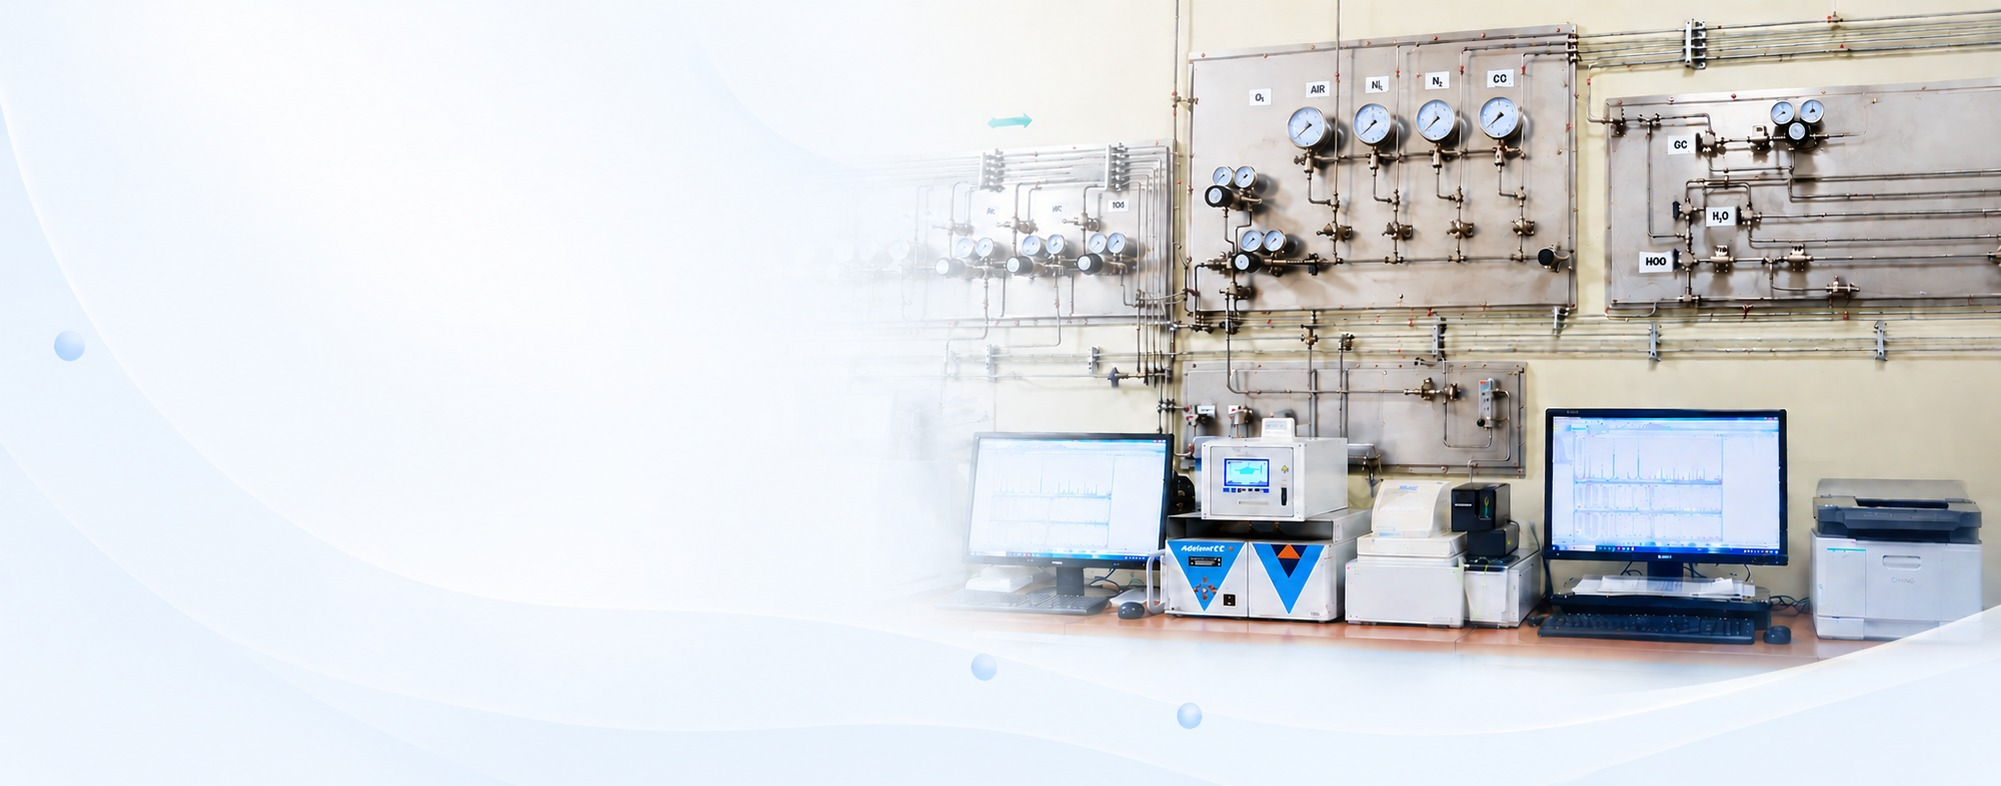
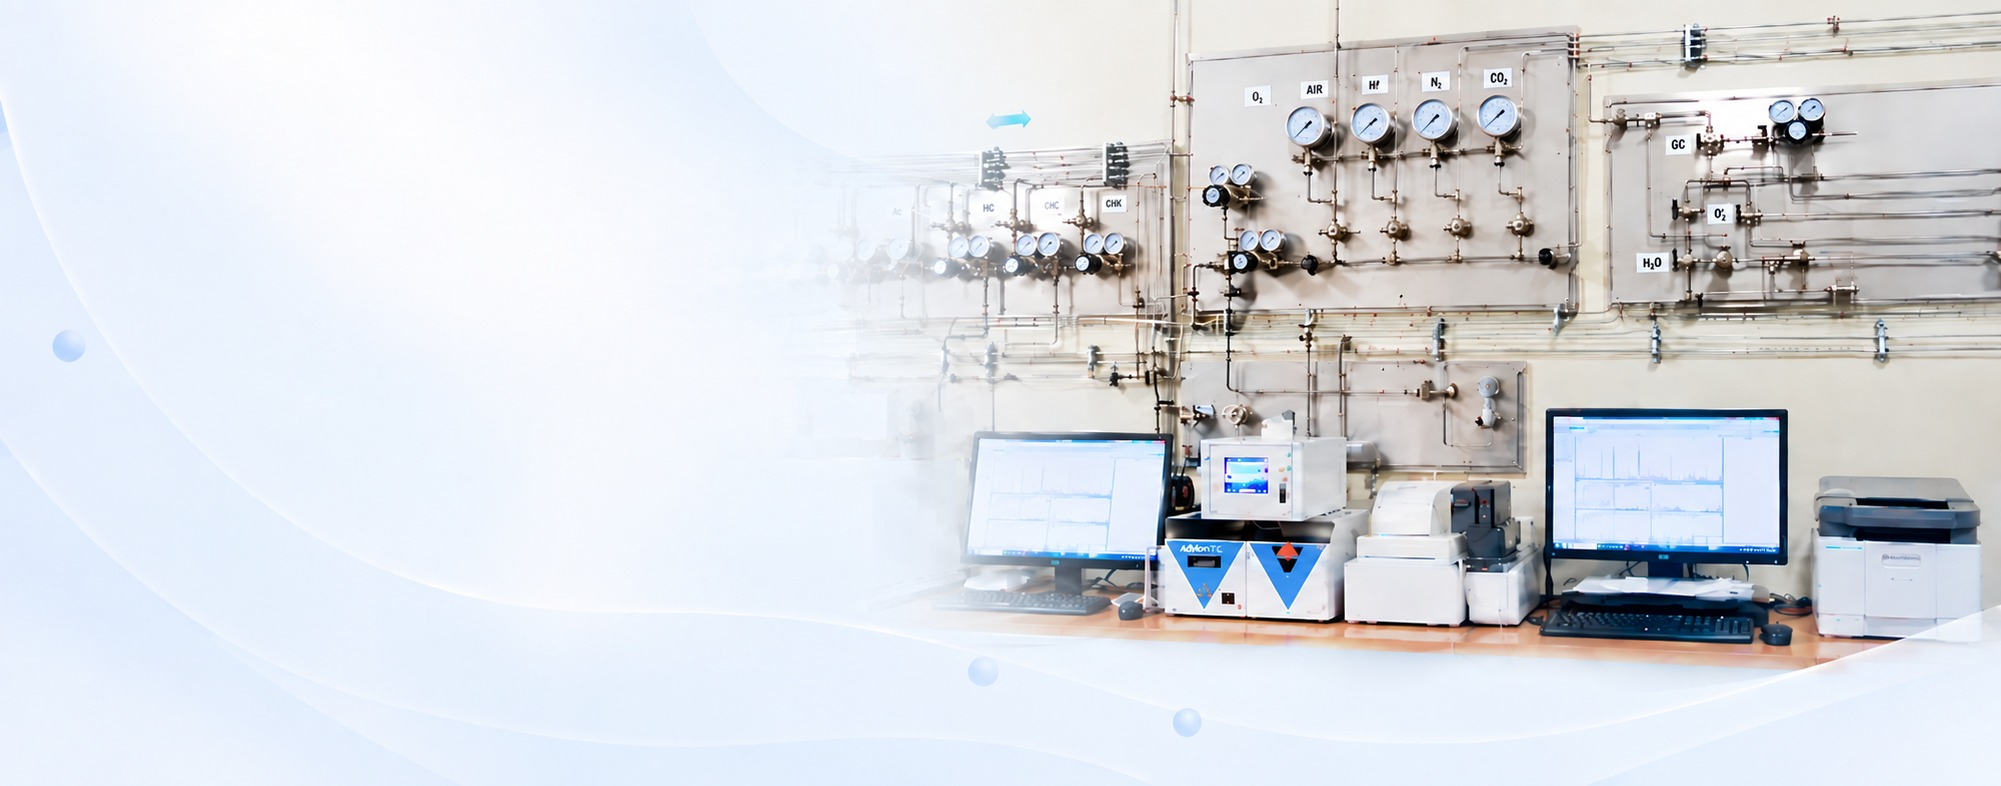
품질·인증 가스분석실 배경 이미지를 신규 이미지로 교체(gas-analysis-bg?v=2)

Changed region(s): [[0.4338, 0.0, 1.0, 0.855], [0.5887, 0.916, 0.6197, 0.9466], [0.4958, 0.1221, 0.5267, 0.1527]]

diff --git a/quality.html b/quality.html
@@ -140,7 +140,7 @@
     <section class="section section--soft" id="purity">
       <div class="container">
         <div class="qlab qlab--hero">
-          <img class="qlab__bg" src="assets/images/site/gas-analysis-bg.jpg?v=1" alt="가스분석실 — 정밀 분석장비" loading="lazy">
+          <img class="qlab__bg" src="assets/images/site/gas-analysis-bg.jpg?v=2" alt="가스분석실 — 정밀 분석장비" loading="lazy">
           <div class="qlab__panel">
             <span class="qlab__eyebrow">GAS ANALYSIS LAB</span>
             <h2 class="qlab__title">가스분석실</h2>
